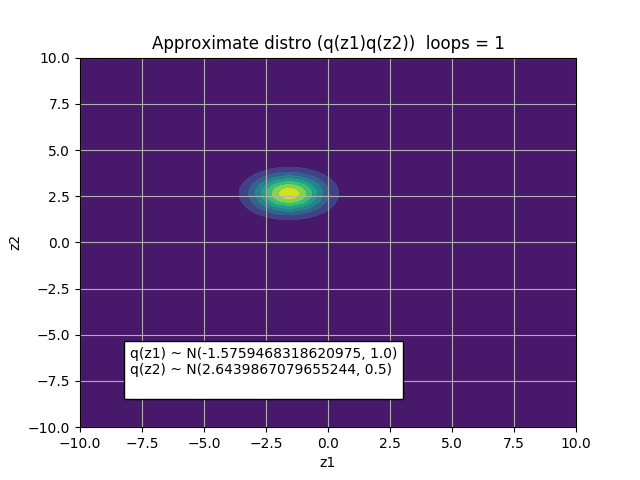
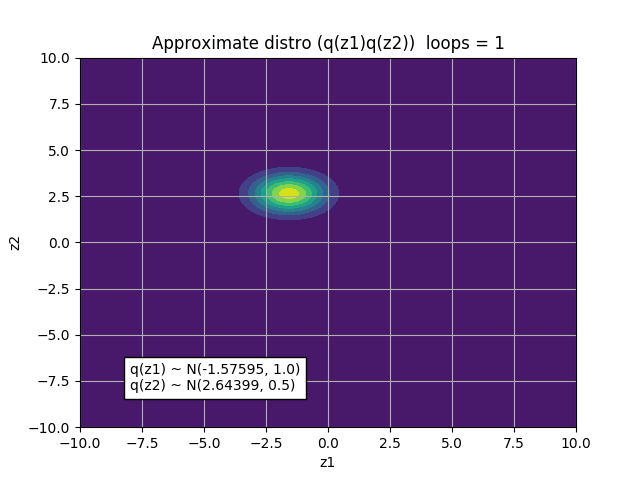
minor change

Changed region(s): [[0.1875, 0.6875, 0.6562, 0.8438]]

diff --git a/10/04/04_variational_approximation.py b/10/04/04_variational_approximation.py
@@ -41,8 +41,8 @@ def plot_2D_contour(distro, loop=None):
     else:
         ax.set_title(f'Approximate distro (q(z1)q(z2))  loops = {loop}')
         ax.contourf(X, Y, distro.pdf(x, y))
-        ax.text(0.1, 0.1, f'q(z1) ~ N({distro.m1}, {1/distro.sigma[0][0]})\n'
-                          f'q(z2) ~ N({distro.m2}, {1/distro.sigma[1][1]})\n',
+        ax.text(0.1, 0.1, f'q(z1) ~ N({distro.m1:.5f}, {1/distro.sigma[0][0]})\n'
+                          f'q(z2) ~ N({distro.m2:.5f}, {1/distro.sigma[1][1]})',
                 bbox=dict(facecolor='white'), transform=ax.transAxes)
 
     ax.grid()
